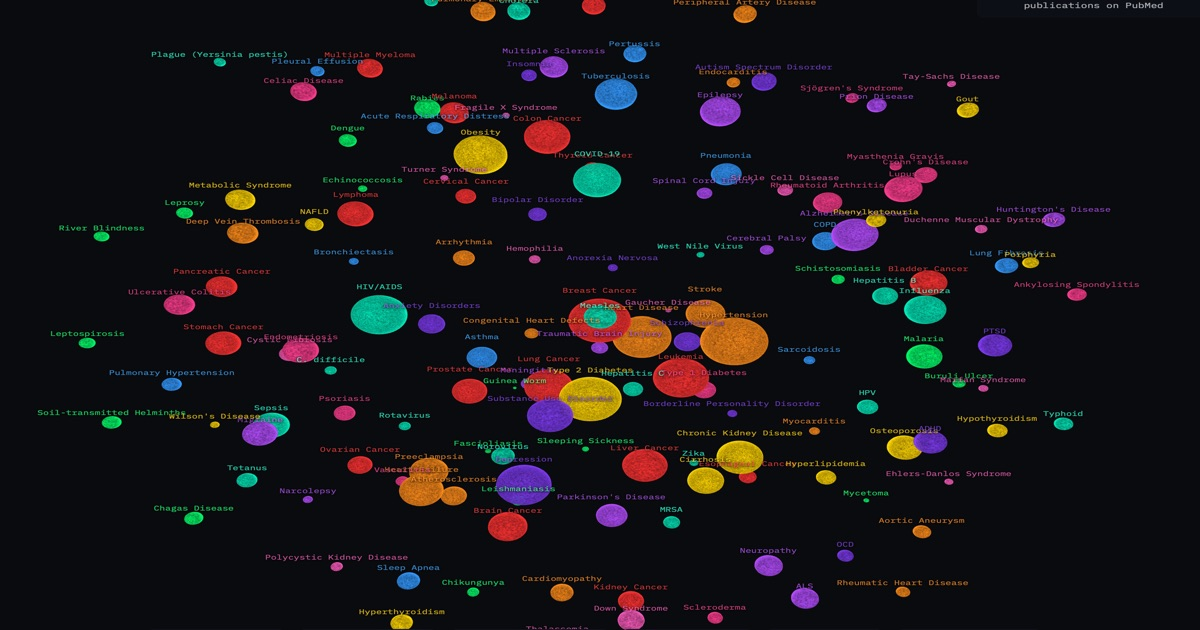
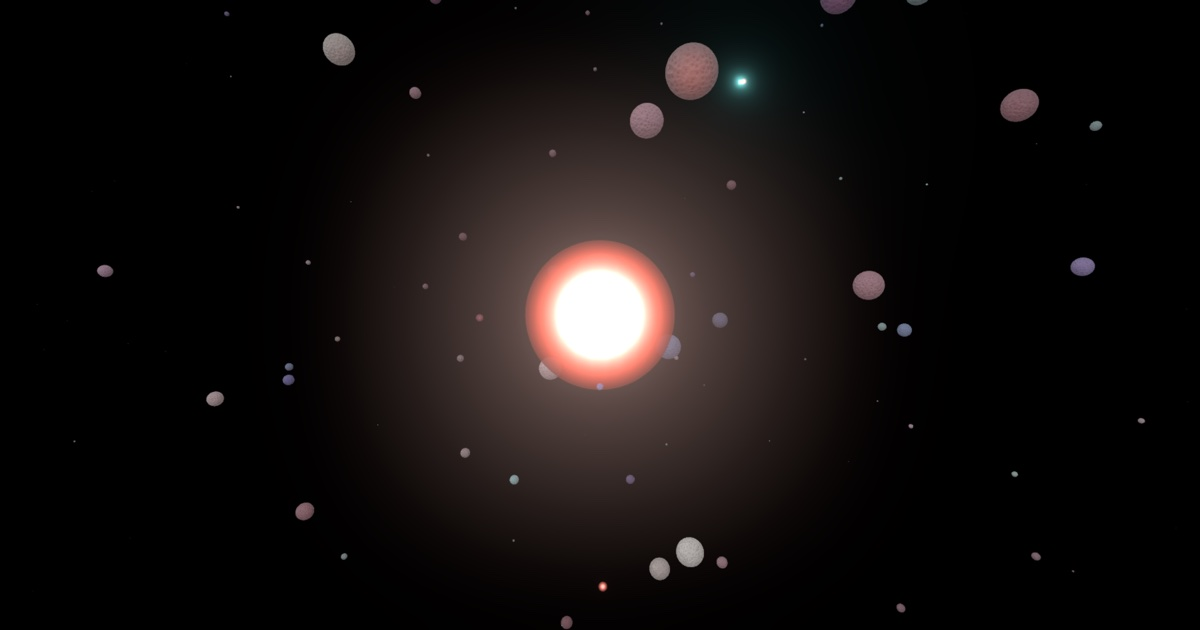
feat(meta): ignite-frame OG image + updated descriptions

diff --git a/index.html b/index.html
@@ -4,7 +4,7 @@
     <meta charset="UTF-8" />
     <meta name="viewport" content="width=device-width, initial-scale=1.0, viewport-fit=cover, user-scalable=no" />
     <title>MedGalaxy — Interactive 3D Disease Research Visualization by Russell James Young</title>
-    <meta name="description" content="MedGalaxy is an interactive 3D visualization of global disease research, mapping 153 diseases by publication volume, mortality, and funding gaps. A data science project by Russell J. Young, British School Jakarta." />
+    <meta name="description" content="MedGalaxy is an interactive 3D visualization of global disease research. A cinematic opening reveals which diseases are overlooked relative to their toll, and a Time Machine lets you scrub two decades of the same data year by year. 153 diseases mapped by publication volume, mortality, and funding gaps. A data science project by Russell J. Young, British School Jakarta." />
     <meta name="keywords" content="Russell Young, Russell J. Young, Russell James Young, Russell Young Jakarta, Russell Young Indonesia, Russell Young British School Jakarta, BSJ, MedGalaxy, disease research visualization, global health data, PubMed, WHO mortality, 3D data visualization, medical research, neglected diseases" />
     <meta name="author" content="Russell J. Young" />
     <link rel="canonical" href="https://www.medgalaxy.org" />
@@ -12,7 +12,7 @@
     <!-- Open Graph -->
     <meta property="og:type" content="website" />
     <meta property="og:title" content="MedGalaxy — Interactive 3D Disease Research Visualization" />
-    <meta property="og:description" content="Explore 153 diseases in an interactive 3D galaxy. See which diseases get the most research, which are neglected, and where funding gaps exist. By Russell J. Young, British School Jakarta." />
+    <meta property="og:description" content="Watch a cinematic opening reveal which diseases the world researches versus which ones actually kill, then scrub two decades of the same data with the Time Machine. An interactive 3D galaxy of 153 diseases, research attention, and funding gaps. By Russell J. Young, British School Jakarta." />
     <meta property="og:url" content="https://www.medgalaxy.org" />
     <meta property="og:site_name" content="MedGalaxy" />
     <meta property="og:image" content="https://www.medgalaxy.org/og-image.jpg" />
@@ -23,7 +23,7 @@
     <!-- Twitter Card -->
     <meta name="twitter:card" content="summary_large_image" />
     <meta name="twitter:title" content="MedGalaxy — 3D Disease Research Visualization" />
-    <meta name="twitter:description" content="Interactive 3D visualization mapping global disease research by Russell J. Young. Explore publication volumes, mortality data, and research gaps." />
+    <meta name="twitter:description" content="An interactive 3D galaxy of 153 diseases. A cinematic opening exposes the gap between research attention and mortality, and the Time Machine lets you scrub two decades of data. By Russell J. Young." />
     <meta name="twitter:image" content="https://www.medgalaxy.org/og-image.jpg" />
 
     <!-- Structured Data -->
